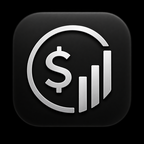
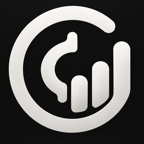
Refresh app branding assets and bump release to v1.37.0

diff --git a/index.html b/index.html
@@ -38,11 +38,11 @@
   <meta name="apple-mobile-web-app-title" content="Money" />
   <!-- Versioned so Safari's own HTTP cache can't serve stale icon/splash
        art when these files change - bump the ?v= on every icon update -->
-  <link rel="icon" type="image/png" sizes="32x32" href="icons/icon-32x32.png?v=20" />
-  <link rel="apple-touch-icon" sizes="180x180" href="icons/icon-180x180.png?v=20" />
-  <link rel="apple-touch-startup-image" media="(device-width: 390px) and (device-height: 844px) and (-webkit-device-pixel-ratio: 3)" href="icons/splash-1170x2532.png?v=20" />
-  <link rel="apple-touch-startup-image" media="(device-width: 375px) and (device-height: 812px) and (-webkit-device-pixel-ratio: 3)" href="icons/splash-1125x2436.png?v=20" />
-  <link rel="apple-touch-startup-image" media="(device-width: 375px) and (device-height: 667px) and (-webkit-device-pixel-ratio: 2)" href="icons/splash-750x1334.png?v=20" />
+  <link rel="icon" type="image/png" sizes="32x32" href="icons/icon-32x32.png?v=21" />
+  <link rel="apple-touch-icon" sizes="180x180" href="icons/icon-180x180.png?v=21" />
+  <link rel="apple-touch-startup-image" media="(device-width: 390px) and (device-height: 844px) and (-webkit-device-pixel-ratio: 3)" href="icons/splash-1170x2532.png?v=21" />
+  <link rel="apple-touch-startup-image" media="(device-width: 375px) and (device-height: 812px) and (-webkit-device-pixel-ratio: 3)" href="icons/splash-1125x2436.png?v=21" />
+  <link rel="apple-touch-startup-image" media="(device-width: 375px) and (device-height: 667px) and (-webkit-device-pixel-ratio: 2)" href="icons/splash-750x1334.png?v=21" />
   <!-- FIRST-PAINT BACKGROUND
        Inline, and before the stylesheet link, deliberately. The page's black
        used to live only in style.css, which is a separate file the browser has
@@ -171,7 +171,7 @@
               <button id="import-data-btn" class="setting-btn-action">Import Data (JSON)</button>
               <input type="file" id="import-file" accept="application/json,.json" class="hidden" />
             </section>
-            <div class="setting-version">v1.36.0</div>
+            <div class="setting-version">v1.37.0</div>
             <div class="modal-actions settings-modal-actions"><button id="close-settings" type="button">Done</button></div>
             </div>
           </div>

diff --git a/service-worker.js b/service-worker.js
@@ -11,7 +11,7 @@
    their browser never has a reason to look at the network again.
 ========================= */
 
-const CACHE_NAME = "mmt-v63";
+const CACHE_NAME = "mmt-v64";
 
 /* Everything needed to cold-start the app offline. "./" is listed separately
    from "./index.html" because that is the URL the browser actually requests
@@ -46,19 +46,19 @@ const ASSETS = [
    would strand every user on the old worker - a far worse outcome than a
    launch image that has to come from the network. */
 const LAUNCH_IMAGES = [
-  "./icons/icon-32x32.png?v=20",
-  "./icons/icon-72x72.png?v=20",
-  "./icons/icon-96x96.png?v=20",
-  "./icons/icon-128x128.png?v=20",
-  "./icons/icon-144x144.png?v=20",
-  "./icons/icon-152x152.png?v=20",
-  "./icons/icon-180x180.png?v=20",
-  "./icons/icon-192x192.png?v=20",
-  "./icons/icon-384x384.png?v=20",
-  "./icons/icon-512x512.png?v=20",
-  "./icons/splash-1170x2532.png?v=20",
-  "./icons/splash-1125x2436.png?v=20",
-  "./icons/splash-750x1334.png?v=20",
+  "./icons/icon-32x32.png?v=21",
+  "./icons/icon-72x72.png?v=21",
+  "./icons/icon-96x96.png?v=21",
+  "./icons/icon-128x128.png?v=21",
+  "./icons/icon-144x144.png?v=21",
+  "./icons/icon-152x152.png?v=21",
+  "./icons/icon-180x180.png?v=21",
+  "./icons/icon-192x192.png?v=21",
+  "./icons/icon-384x384.png?v=21",
+  "./icons/icon-512x512.png?v=21",
+  "./icons/splash-1170x2532.png?v=21",
+  "./icons/splash-1125x2436.png?v=21",
+  "./icons/splash-750x1334.png?v=21",
 ];
 
 /* INSTALL - fired once per new CACHE_NAME. Pre-fetch every asset so the very
